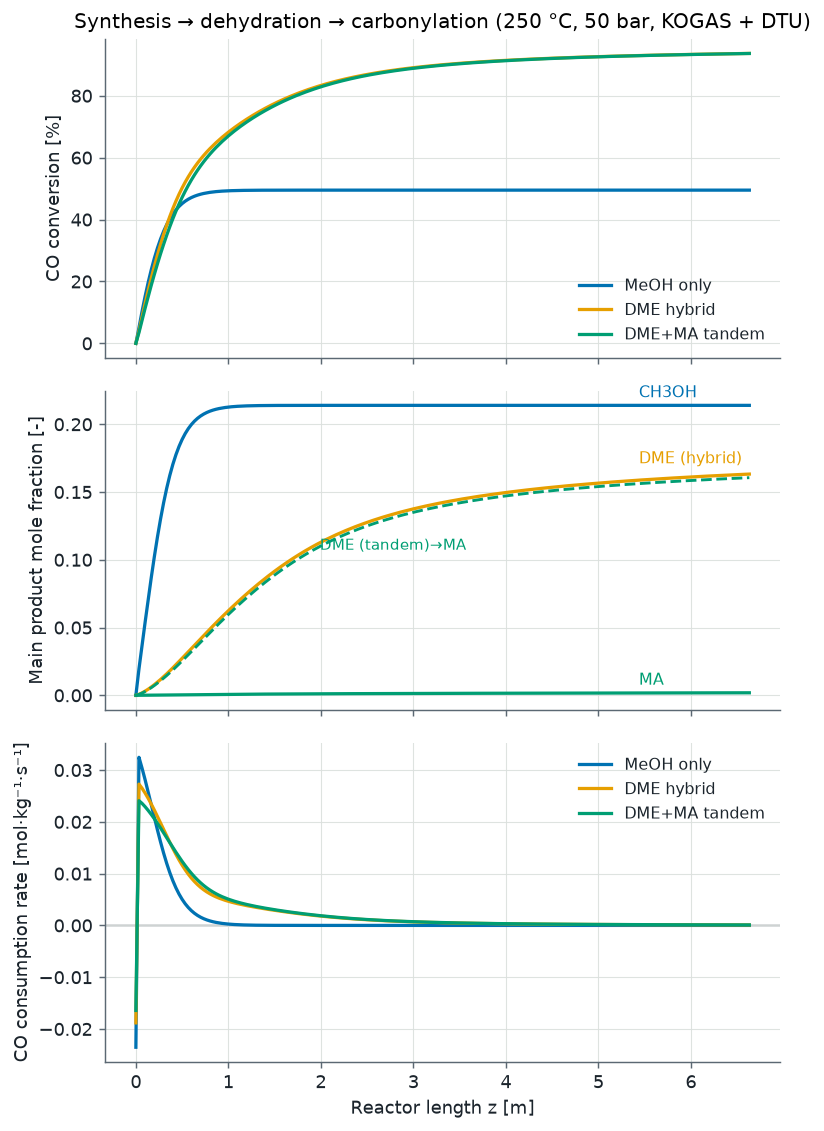
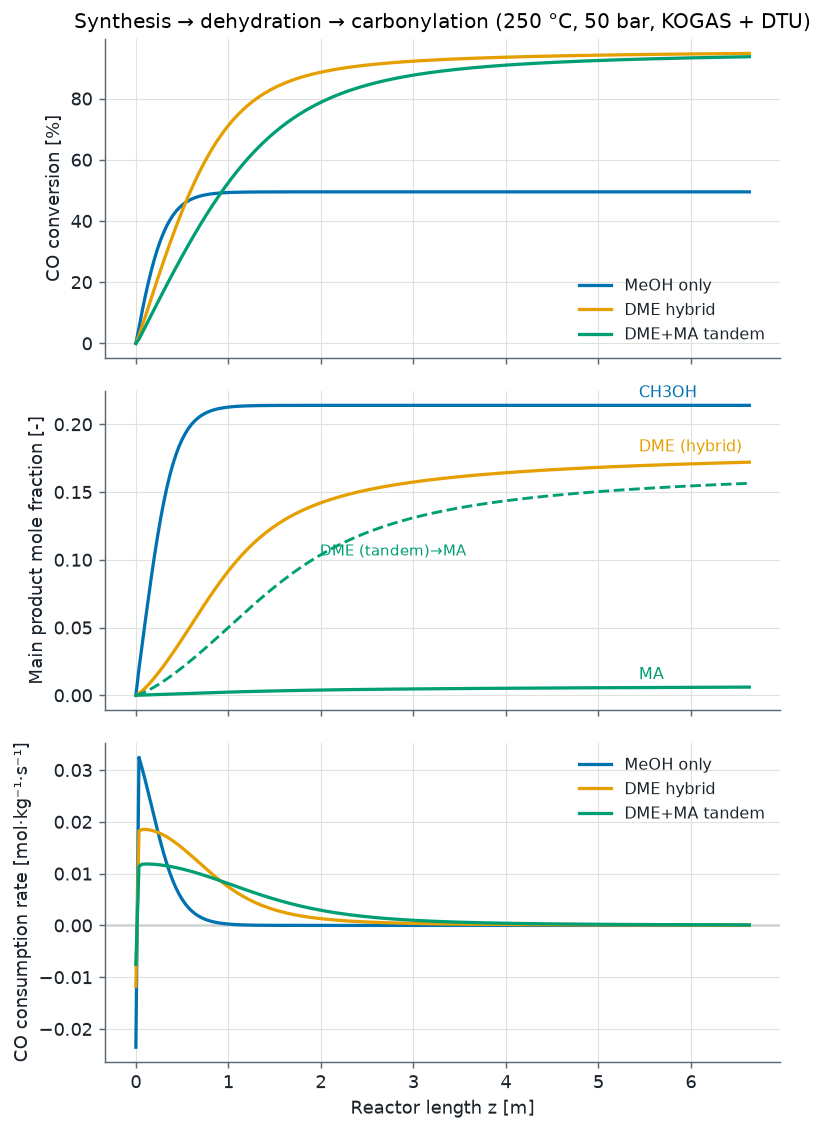
feat: タンデム触媒比を変更(bed_dme 5:5, bed_tan 0.32:0.28:0.40)＋DTU式にDME正則化
- examples/(length_compare, tandem_carbonylation, tandem_sty, tandem_full):
  bed_dme=synthesis:dehydration=5:5、bed_tan=0.32:0.28:0.40 に更新（feed は不変）。
- carbonylation.py: DTU 系にも 2015 の DME 正則化因子 K_DME·pDME/(1+K_DME·pDME) を適用。
  40%カルボニル化では DTU 式の K3·pMA/pDME 正則化が pMA 低で効かず、DME 零次形が
  DME を過剰消費して負の DME(y_DME=-0.021) になっていた問題を修正（→ y_DME=0.071 で正）。
  pDME≳1e-4 bar で因子≈1 のため微分検証域の速度は不変。tests/HTML注記⑤も更新。
- 影響する図を全再生成。

diff --git a/references/rate_equations.html b/references/rate_equations.html
@@ -662,7 +662,7 @@
         <b>Cheung2007</b> = 1次・MA阻害なしの温度依存形（<b>8.2e-5 の実値・per kg</b>, 438K で DTU と ~25% 整合）。
         <b>Cheng2017</b> = 同形で Ea のみ Cheng（★混成: Cheng 独自の絶対値は変換不能のため大きさは Cheung に anchor）。
         <b>DTU-Cheung/Cheng 系</b> = DTU の MA 阻害を保ちつつ k₁(-1)/+K₂(-2)/+K₃(-3) を温度依存化。<b>Cheung 系が第一推奨</b>（基礎速度論・438K検証）、Cheng 系は Ea を高めに取る感度用。</p>
-      <p class="msub-note"><b>注意:</b> ① 新しい Cheng 2017 が「より正確」とは限らない（Cheung 2007 が基礎速度論の定番、Cheng は失活が主眼）。両 Ea は ~15% 差で整合。② per-kg 形（Cheung2007/Cheng2017）は反応器で ×酸点密度 をしない（DTU 系の per mol Al と基準が違う）。③ ΔH₂/ΔH₃ は DFT 概算（±10–20 kJ/mol, DTU eqn 5–10 の精読要）。<b>K₃ は ΔH₃ が小さくほぼ温度非依存</b>（-3 の実益は限定的）。④ 2015 論文 p6 の「Cheng et al.」は綴りミスで実体は <b>Cheung 2007</b>（p11=Cheung⁵, 2015 は Cheng 2017 より前）。⑤ standalone（Cheung2007/Cheng2017）は 2015 論文の <b>DME 正則化因子</b> K<sub>DME</sub>p<sub>DME</sub>/(1+K<sub>DME</sub>p<sub>DME</sub>)（K<sub>DME</sub>=1 Pa⁻¹）込み: DME 零次だが枯渇で速度→0（反応器で >100% 転化を防ぐ）。DTU 系は K₃p<sub>MA</sub>/p<sub>DME</sub> 項で自己正則化。</p>
+      <p class="msub-note"><b>注意:</b> ① 新しい Cheng 2017 が「より正確」とは限らない（Cheung 2007 が基礎速度論の定番、Cheng は失活が主眼）。両 Ea は ~15% 差で整合。② per-kg 形（Cheung2007/Cheng2017）は反応器で ×酸点密度 をしない（DTU 系の per mol Al と基準が違う）。③ ΔH₂/ΔH₃ は DFT 概算（±10–20 kJ/mol, DTU eqn 5–10 の精読要）。<b>K₃ は ΔH₃ が小さくほぼ温度非依存</b>（-3 の実益は限定的）。④ 2015 論文 p6 の「Cheng et al.」は綴りミスで実体は <b>Cheung 2007</b>（p11=Cheung⁵, 2015 は Cheng 2017 より前）。⑤ <b>全モデルに</b> 2015 論文の <b>DME 正則化因子</b> K<sub>DME</sub>p<sub>DME</sub>/(1+K<sub>DME</sub>p<sub>DME</sub>)（K<sub>DME</sub>=1 Pa⁻¹）を適用: DME 零次形が反応器で DME 枯渇時に速度→0（負の DME・>100% 転化を防ぐ）。DTU 式の K₃p<sub>MA</sub>/p<sub>DME</sub> は pMA が高いときしか効かないため、この因子で補う（pDME≳1e-4 bar で因子≈1＝微分検証域は不変）。</p>
     </div>
 
     <div class="note">

diff --git a/examples/fig_length_compare.py b/examples/fig_length_compare.py
@@ -2,8 +2,8 @@
 
 同一 feed・同一温度で、触媒構成だけを変える 3 ケース:
   - MeOH only     : synthesis のみ（10 kg）。CH3OH まで。
-  - DME hybrid    : synthesis:dehydration = 8:2（計 10 kg）。CH3OH→DME。
-  - DME+MA tandem : synthesis:dehydration:carbonylation = 7:2:1（計 10 kg）。CH3OH→DME→MA。
+  - DME hybrid    : synthesis:dehydration = 5:5（計 10 kg）。CH3OH→DME。
+  - DME+MA tandem : synthesis:dehydration:carbonylation = 0.32:0.28:0.40（計 10 kg）。CH3OH→DME→MA。
 
 読み取れること:
   上段 CO 転化率     : 脱水で ~50%→~94%、カルボニル化追加で CO をさらに消費（DME+CO→MA）。
@@ -57,11 +57,11 @@ def co_rate_profile(result, bed, models, k_eq3):
 
 
 def main():
-    # 3 ケース（合成のみ / 合成+脱水 8:2 / 合成+脱水+カルボニル化 7:2:1）。色=ケースで固定。
+    # 3 ケース（合成のみ / 合成+脱水 5:5 / 合成+脱水+カルボニル化 0.32:0.28:0.40）。色=ケースで固定。
     bed_syn = CatalystBed({"synthesis": W})
-    bed_dme = CatalystBed({"synthesis": 0.8 * W, "dehydration": 0.2 * W})
-    bed_tan = CatalystBed({"synthesis": 0.7 * W, "dehydration": 0.2 * W,
-                           "carbonylation": 0.1 * W})
+    bed_dme = CatalystBed({"synthesis": 0.5 * W, "dehydration": 0.5 * W})
+    bed_tan = CatalystBed({"synthesis": 0.32 * W, "dehydration": 0.28 * W,
+                           "carbonylation": 0.40 * W})
     mdl_syn = {"synthesis": "KOGAS"}
     mdl_dme = {"synthesis": "KOGAS", "dehydration": "KOGAS"}
     mdl_tan = {"synthesis": "KOGAS", "dehydration": "KOGAS", "carbonylation": "DTU"}

diff --git a/examples/fig_tandem_carbonylation.py b/examples/fig_tandem_carbonylation.py
@@ -3,8 +3,8 @@
 fig_length_compare.py と同形式（3ケース・3段）だが、カルボニル化に温度依存モデル
 DTU-Cheung2007-2 を使う点が違う（438K固定の 'DTU' より 250℃ で桁違いに速い）。
   MeOH only     : synthesis のみ（10 kg）
-  DME hybrid    : synthesis:dehydration = 8:2（計 10 kg）
-  DME+MA tandem : synthesis:dehydration:carbonylation = 7:2:1、carbonylation=DTU-Cheung2007-2
+  DME hybrid    : synthesis:dehydration = 5:5（計 10 kg）
+  DME+MA tandem : synthesis:dehydration:carbonylation = 0.32:0.28:0.40、carbonylation=DTU-Cheung2007-2
 
 DTU-Cheung2007-2 とは（rate_equations.html §3）:
   DTU の MA阻害式で、k1 を温度依存(Cheung Ea=69.6)・K2 も van't Hoff(DTU DFT ΔH2)で温度依存化。
@@ -53,8 +53,8 @@ def co_rate_profile(result, bed, models, k_eq3):
 
 def main():
     bed_syn = CatalystBed({"synthesis": W})
-    bed_dme = CatalystBed({"synthesis": 0.8 * W, "dehydration": 0.2 * W})
-    bed_tan = CatalystBed({"synthesis": 0.7 * W, "dehydration": 0.2 * W, "carbonylation": 0.1 * W})
+    bed_dme = CatalystBed({"synthesis": 0.5 * W, "dehydration": 0.5 * W})
+    bed_tan = CatalystBed({"synthesis": 0.32 * W, "dehydration": 0.28 * W, "carbonylation": 0.40 * W})
     mdl_syn = {"synthesis": "KOGAS"}
     mdl_dme = {"synthesis": "KOGAS", "dehydration": "KOGAS"}
     mdl_tan = {"synthesis": "KOGAS", "dehydration": "KOGAS", "carbonylation": CARB}

diff --git a/tests/test_carbonylation.py b/tests/test_carbonylation.py
@@ -10,14 +10,15 @@ def test_dtu_params():
 
 
 def test_dtu_differential_first_order_in_CO():
-    # 微分条件(pMA=0)で r_MA = k1·pCO（CO一次・DME零次）
+    # 微分条件(pMA=0, DME存在)で r_MA ≈ k1·pCO（DME正則化因子は pDME≳1e-4bar で ~1）
     s = GasState(438.0, 15.0, {"CO": 0.98, "DME": 0.02, "MA": 0.0})
     r = carbonylation.rate(s, model="DTU")
-    p_CO = s.partial_pressures()["CO"]
-    assert math.isclose(r, carbonylation.DTU_PARAMS["k1"] * p_CO, rel_tol=1e-9)
-    # DME 零次: DME 分圧を変えても微分レートは不変
+    p = s.partial_pressures()
+    expect = carbonylation.DTU_PARAMS["k1"] * p["CO"] * carbonylation._dme_reg(p["DME"])
+    assert math.isclose(r, expect, rel_tol=1e-9)
+    # DME 実質零次: DME 分圧を変えても微分レートはほぼ不変（正則化による差は ~1e-4 以内）
     s2 = GasState(438.0, 15.0, {"CO": 0.98, "DME": 0.5, "MA": 0.0})
-    assert math.isclose(r, carbonylation.rate(s2, "DTU"), rel_tol=1e-9)
+    assert math.isclose(r, carbonylation.rate(s2, "DTU"), rel_tol=1e-3)
 
 
 def test_dtu_MA_inhibition():

diff --git a/src/reaction_rate/carbonylation.py b/src/reaction_rate/carbonylation.py
@@ -91,7 +91,10 @@ def rate_dtu(state, model: str = "DTU") -> float:
     inhibition = 1.0 + K2 * p_MA
     if p_DME > 0.0:                       # 微分条件(pMA→0)では第3項は 0
         inhibition += K3 * p_MA / p_DME
-    return k1 * p_CO / inhibition
+    # DME 正則化: DTU 式は DME 零次で、pMA が低いと K3 項が効かず反応器で DME を過剰消費し得る
+    # （負の DME）。2015 の因子 K_DME·pDME/(1+K_DME·pDME) を掛け、DME 枯渇で速度→0 にする。
+    # pDME≳1e-4 bar で因子≈1 なので微分域(DTU の検証域)の速度は変えない。
+    return k1 * p_CO / inhibition * _dme_reg(p_DME)
 
 
 def rate_cheung2007(state) -> float:

diff --git a/examples/fig_tandem_sty.py b/examples/fig_tandem_sty.py
@@ -49,8 +49,8 @@ def sty_profile(result, species):
 
 def main():
     bed_syn = CatalystBed({"synthesis": W})
-    bed_dme = CatalystBed({"synthesis": 0.8 * W, "dehydration": 0.2 * W})
-    bed_tan = CatalystBed({"synthesis": 0.7 * W, "dehydration": 0.2 * W, "carbonylation": 0.1 * W})
+    bed_dme = CatalystBed({"synthesis": 0.5 * W, "dehydration": 0.5 * W})
+    bed_tan = CatalystBed({"synthesis": 0.32 * W, "dehydration": 0.28 * W, "carbonylation": 0.40 * W})
     res_syn = pfr(feed(), T, P, bed_syn, models={"synthesis": "KOGAS"})
     res_dme = pfr(feed(), T, P, bed_dme, models={"synthesis": "KOGAS", "dehydration": "KOGAS"}, k_eq3="thermo")
     res_tan = pfr(feed(), T, P, bed_tan,

diff --git a/examples/fig_tandem_full.py b/examples/fig_tandem_full.py
@@ -61,8 +61,8 @@ def sty_profile(result, species):
 
 def main():
     bed_syn = CatalystBed({"synthesis": W})
-    bed_dme = CatalystBed({"synthesis": 0.8 * W, "dehydration": 0.2 * W})
-    bed_tan = CatalystBed({"synthesis": 0.7 * W, "dehydration": 0.2 * W, "carbonylation": 0.1 * W})
+    bed_dme = CatalystBed({"synthesis": 0.5 * W, "dehydration": 0.5 * W})
+    bed_tan = CatalystBed({"synthesis": 0.32 * W, "dehydration": 0.28 * W, "carbonylation": 0.40 * W})
     mdl_syn = {"synthesis": "KOGAS"}
     mdl_dme = {"synthesis": "KOGAS", "dehydration": "KOGAS"}
     mdl_tan = {"synthesis": "KOGAS", "dehydration": "KOGAS", "carbonylation": CARB}
